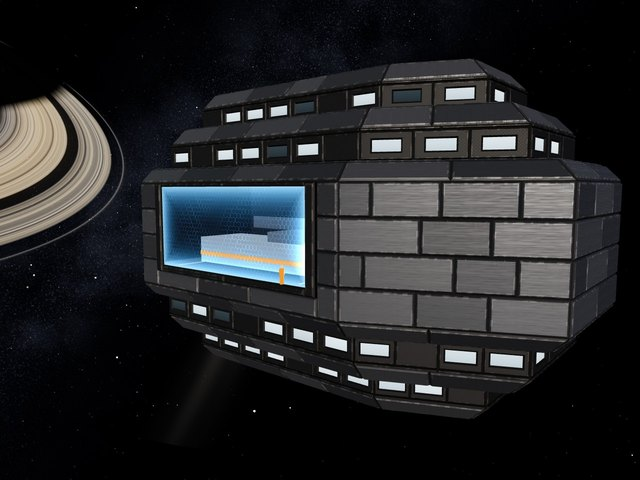
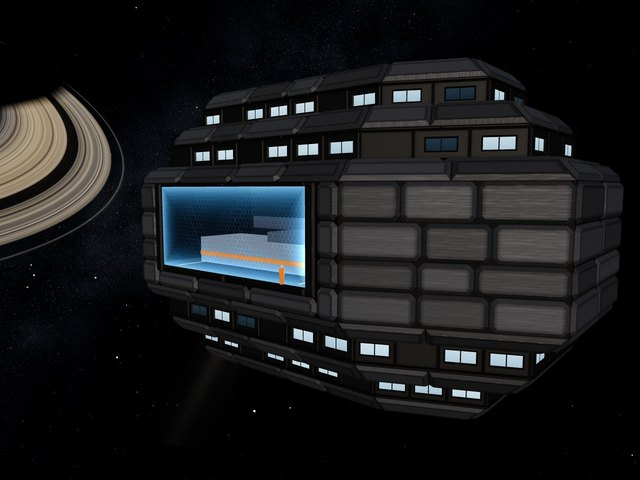
Labs: the Hull Lab's picture and card after the fresh eyes (cut-corner plates, the darker first look)
Claude-Session: https://claude.ai/code/session_013cjWkL4PLa5o6fvGQ3D2Bo

Changed region(s): [[0.2188, 0.125, 0.9688, 0.8438], [0.0, 0.1875, 0.1875, 0.5312]]

diff --git a/pi-nebula/labs/index.html b/pi-nebula/labs/index.html
@@ -58,7 +58,7 @@
       <img src="hull/thumb.jpg" alt="A piece of the station's hull in dark grey armour plates: a hangar door closed by a blue shield, tiers with rows of lit windows above and below it, a ringed planet behind">
       <div class="txt">
         <h2>Hull Lab</h2>
-        <p>The outside of the station: a real-size piece of its hull, with one hangar door and its shield, two tiers stepping in above it and two below with rows of lit windows, and one bevelled end, all built from separate bevelled armour plates. Change the greys, the plates' size, lap, bevel and seams, and the finish of the middle band, the tiers and the trim, each its own: plain, brushed, tempered, cross-hatched or mottled. Add wear in layers (scratches, worn edges, dark streaks, meteoroid pits, grime) and set how dark the seams and edges are. It hangs under the game's own sky, and the sun turns round it. Three ready-made looks to start from; copy your settings as text, paste them back, or reset. The triangles, draws, picture memory and frame time are in the corner.</p>
+        <p>The outside of the station: a real-size piece of its hull, with one hangar door and its shield, two tiers stepping in above it and two below with rows of lit windows, and one bevelled end, all built from separate bevelled armour plates with cut corners. Change the greys, the plates' size, lap, bevel, cut corners and seams, and the finish of the middle band, the tiers and the trim, each its own: plain, brushed, tempered, cross-hatched or mottled. Add wear in layers (scratches, worn edges, dark streaks, meteoroid pits, grime) and set how dark the seams and edges are. It hangs under the game's own sky, and the sun turns round it. Three ready-made looks to start from; copy your settings as text, paste them back, or reset. The triangles, draws, picture memory and frame time are in the corner.</p>
       </div>
     </a>
   </div>
